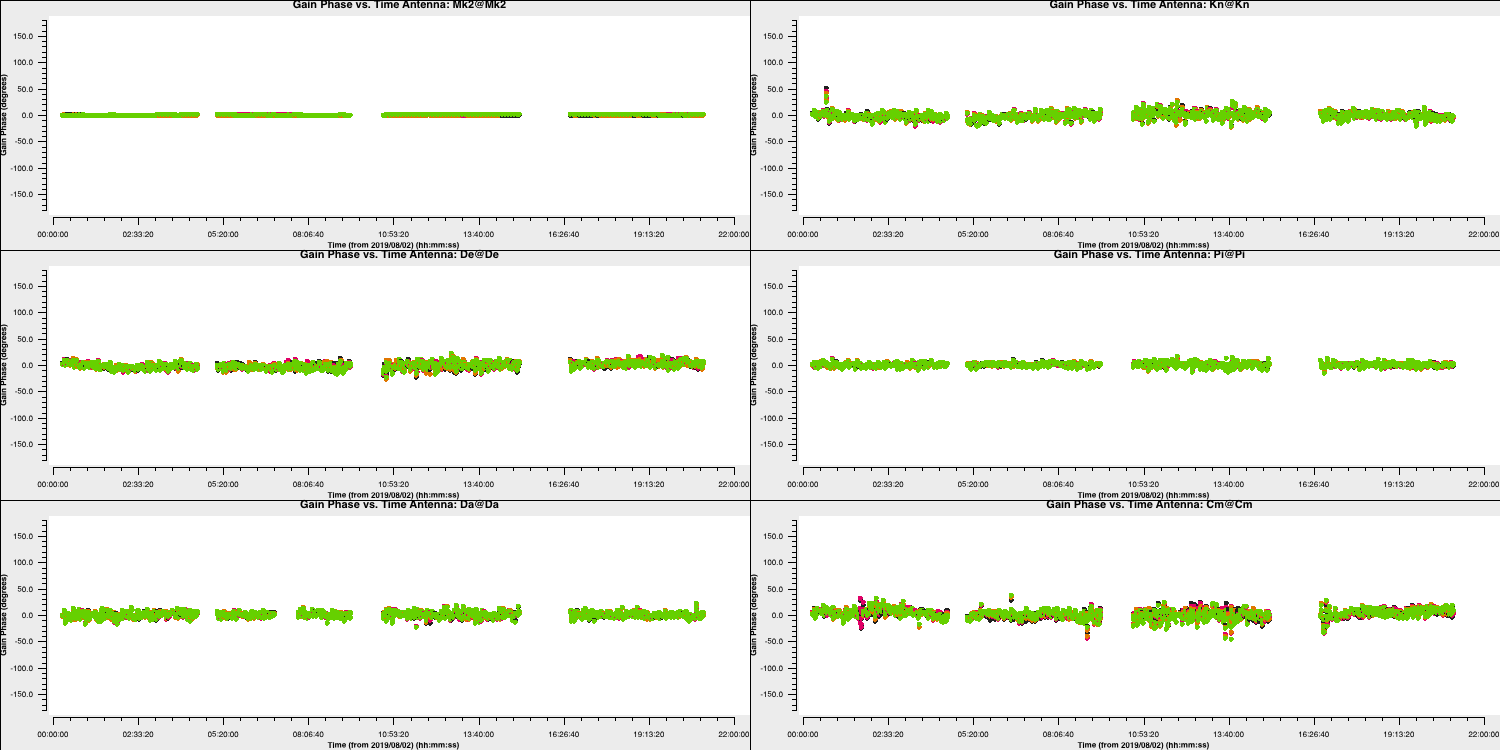
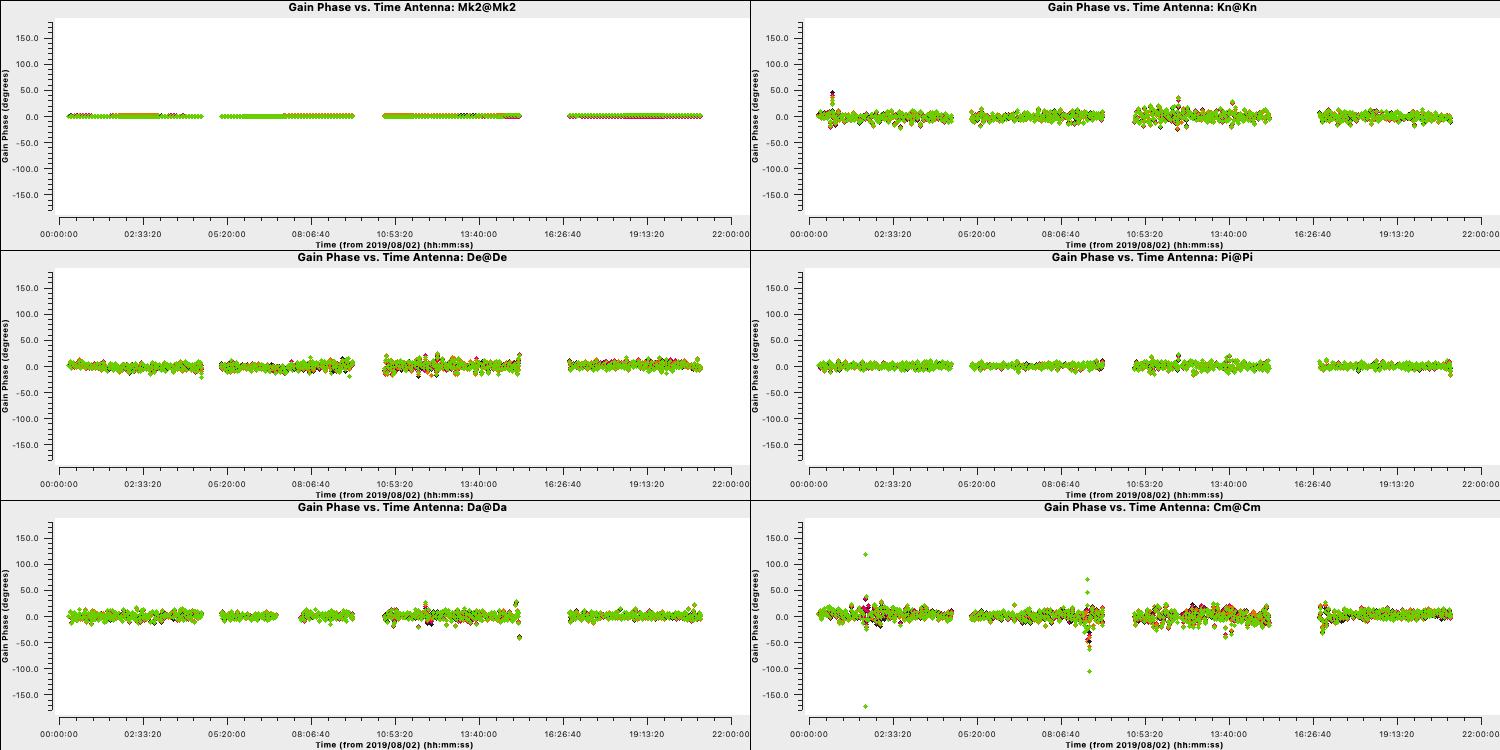
almost done self-cal

diff --git a/selfcalibration.html b/selfcalibration.html
@@ -98,7 +98,7 @@ onload = function(){
 		   yaxis='amp',
 		   ydatacolumn='model',
 		   correlation='RR,LL',
-		   avgchannel='64',
+		   avgchannel='16',
 		   coloraxis='spw',
 		   plotfile='',
 		   overwrite=True, showgui=gui)</code></pre></li>
@@ -250,7 +250,7 @@ onload = function(){
 								<p>
 									<ul>
 										<li>Take a look at step 8 and enter the parameters for <code class="language-bash">gaincal</code> as before, but now reduce the solution interval to 30s,
-								<pre class="line-numbers" data-start="241"><code class="language-python">	gaincal(vis=target+'.ms',
+								<pre class="line-numbers" data-start="291"><code class="language-python">	gaincal(vis=target+'.ms',
 			calmode='**',
 			caltable='target.p2',
 			field=target,
@@ -277,8 +277,8 @@ onload = function(){
 								</p>
 								<p>
 									<ul>
-										<li>Take a look at step 9 and enter the parameters into <code class="language-bash">applycal</code> as before, but making sure we add the new gaintable to the list.<pre class="line-numbers" data-start="279"><code class="language-python">applycal(vis='1252+5634.ms',
-			 gaintable=['**', '**'])</code></pre></li>
+										<li>Take a look at step 9 and enter the parameters into <code class="language-bash">applycal</code> as before, but making sure we add the new gaintable to the list.<pre class="line-numbers" data-start="330"><code class="language-python">applycal(vis='1252+5634.ms',
+		 gaintable=['**', '**'])</code></pre></li>
 			 						</ul>
 								</p>
 								
@@ -290,24 +290,49 @@ onload = function(){
 								</p>
 								<p>	
 									<ul>
-										<li>Enter the imaging parameters into the <code class="language-bash">tclean</code>	step and the box sizes into the image statistics to track the S/N,<pre class="line-numbers" data-start="284"><code class="language-python">	tclean(vis=target+'.ms',
-		   imagename=target+'_p2.clean',
+										<li>Enter the imaging parameters into the <code class="language-bash">tclean</code>	step and the box sizes into the image statistics to track the S/N,
+											<div class="row">
+												<div class="column">
+												<b>Linux</b>
+												<pre class="line-numbers" data-start="336"><code class="language-python">	tclean(vis=target+'.ms',
+		   imagename='targetp2',
+		   imsize=['**','**'],
 		   cell='**arcsec',
-		   niter=4500, # stop before this if residuals reach noise
+		   specmode='mfs',
+		   niter=4000,
 		   cycleniter=500,
 		   gain=0.2,
-		   imsize=['**','**'],
+		   threshold=0,
 		   deconvolver='mtmfs',
 		   savemodel='modelcolumn',
 		   nterms=2, # Make spectral index image
-		   interactive=True)
-
-	rmsp2=imstat(imagename=target+'_p2.clean.image.tt0',
-				  box='**,**,**,**')['rms'][0]
-	peakp2=imstat(imagename=target+'_p2.clean.image.tt0',
-				  box='**,**,**,**')['max'][0]</code></pre></li>
+		   interactive=True)</code></pre></div>
+			<div class="column">
+			<b>Mac OS</b>
+			<pre class="line-numbers" data-start="350"><code class="language-python">	run_iclean(vis=target+'.ms',
+			   imagename='targetp2',
+			   imsize=['**','**'],
+			   cell='**arcsec',
+			   specmode='mfs',
+			   niter=4000,
+			   cycleniter=500,
+			   gain=0.2,
+			   threshold=0,
+			   deconvolver='mtmfs',
+			   savemodel='modelcolumn',
+			   nterms=2) # Make spectral index image
+	 ft(vis=target+'.ms',
+		model=['targetp2.model.tt0','targetp2.model.tt1'],
+		nterms=2,
+		usescratch=True)</code></pre></div></div>
+			
+			
+			<pre class="line-numbers" data-start="367"><code class="language-python">	rmsp2=imstat(imagename='targetp2.image.tt0',
+				box='**,**,**,**')['rms'][0]
+	peakp2=imstat(imagename='targetp2.image.tt0',
+				box='**,**,**,**')['max'][0]</code></pre></li>
 				  						<li>Once you are happy execute step 9 and clean the image! Make sure you clean till as much target flux as possible has been removed into the model - you can increase the number of iterations interactively if you want.</li>
-										<li>Use <code class="language-bash">ls</code> to see the names of the image files created. The image name is <code class="language-bash">1252+5634_p2.clean.image.tt0</code>.</li>
+										<li>Use <code class="language-bash">ls</code> to see the names of the image files created. The image name is <code class="language-bash">targetp2.image.tt0</code>.</li>
 									</ul>
 								</p>
 								<p>
@@ -323,13 +348,13 @@ onload = function(){
 								</p>
 								<p>
 									<ul>
-										<li>In step 10, use <code class="language-bash">plotms</code> to plot the amplitude versus time of the shortest baseline then execute the step<pre class="line-numbers" data-start="320"><code class="language-python">	plotms(vis=target+'.ms',
+										<li>In step 10, use <code class="language-bash">plotms</code> to plot the amplitude versus time of the shortest baseline then execute the step<pre class="line-numbers" data-start="394"><code class="language-python">	plotms(vis=target+'.ms',
 		   xaxis='**',
 		   yaxis='**',
 		   ydatacolumn='**',
 		   antenna='**&**',
 		   correlation='RR,LL',
-		   avgchannel='64',
+		   avgchannel='16',
 		   coloraxis='spw',
 		   timerange='',
 		   plotfile='',
@@ -337,7 +362,7 @@ onload = function(){
 									</ul>
 		   						</p>
 		   						<p>
-		   							You should find a plot similar to that below. The smooth amplitude changes across the duration of the observation are not due to the antennae errors but due to the structure of the source (antennae errors should be on shorter timescales and less smooth). Remember that the projected baseline length changes over time so the sky the baseline 'sees' also changes.
+		   							You should find a plot similar to that below. The smooth amplitude changes across the duration of the observation are not due to the antennae errors but due to the structure of the source (antennae errors should be on shorter timescales and less smooth). Remember that the projected baseline length changes over time so the sky that the baseline 'sees' also changes.
 		   						</p>
 		   						<div class="col-12"><span class="image fit"><img src="plots/3C277.1_amp.png" alt="" /></span></div>
 		   						<p>
@@ -363,9 +388,9 @@ onload = function(){
 								<p>
 									<ul>
 										<li>Take a look at step 11 and set up <code class="language-bash">gaincal</code> to calibrate amplitude and phase, with a longer solution interval, and the same refant etc. as before.
-								<pre class="line-numbers" data-start="341"><code class="language-python">	gaincal(vis=target+'.ms',
+								<pre class="line-numbers" data-start="415"><code class="language-python">	gaincal(vis=target+'.ms',
 			calmode='**',
-			caltable='target.ap1',
+			caltable='target.ap3',
 			field=target,
 			solint='**',
 			refant=antref,
@@ -389,27 +414,44 @@ onload = function(){
 								</p>
 								<p>
 									<ul>
-										<li>In step 12, enter the parameters to apply all the calibration tables, make a final image, and record the statistics of the final image (use the same parameters as before)<pre class="line-numbers" data-start="378"><code class="language-python">	applycal(vis=target+'.ms',
-			 gaintable=['**','**','**'], calwt=False)
-
-	# clean amp&phase self-calibrated image
-	os.system('rm -rf '+target+'_ap1.clean*')
-	tclean(vis=target+'.ms',
-		   imagename=target+'_ap1.clean',
+										<li>In step 12, enter the parameters to apply all the calibration tables, make a final image, and record the statistics of the final image (use the same parameters as before)<pre class="line-numbers" data-start="453"><code class="language-python">	applycal(vis=target+'.ms',
+			 gaintable=['**','**','**'], calwt=False)</code></pre>
+			<div class="row">
+			<div class='column'>
+			<b>Linux</b>
+			<pre class="line-numbers" data-start="459"><code class="language-python">	tclean(vis=target+'.ms',
+		   imagename='targetap3',
+		   imsize=['**','**'],
 		   cell='**arcsec',
-		   niter=5000, # stop before this if residuals reach noise
+		   specmode='mfs',
+		   niter=5000,
 		   cycleniter=500,
 		   gain=0.2,
-		   imsize=['**','**'],
+		   threshold=0,
 		   deconvolver='mtmfs',
 		   savemodel='modelcolumn',
 		   nterms=2, # Make spectral index image
-		   interactive=True)
-
-	rmsap1=imstat(imagename=target+'_ap1.clean.image.tt0',
-				  box='**,**,**,**')['rms'][0]
-	peakap1=imstat(imagename=target+'_ap1.clean.image.tt0',
-				  box='**,**,**,**')['max'][0]</code></pre></li>
+		   interactive=True)</code></pre>
+			</div>
+			<div class='column'>
+			<b>Mac OS</b>
+			<pre class="line-numbers" data-start="473"><code class="language-python">	run_iclean(vis=target+'.ms',
+			   imagename='targetap3',
+			   imsize=['**','**'],
+			   cell='**arcsec',
+			   specmode='mfs',
+			   niter=5000,
+			   cycleniter=500,
+			   gain=0.2,
+			   threshold=0,
+			   deconvolver='mtmfs',
+			   savemodel='modelcolumn',
+			   nterms=2) # Make spectral index image</code></pre>
+			</div></div>
+			<pre class="line-numbers" data-start="486"><code class="language-python">	rmsap1=imstat(imagename='targetap3.image.tt0',
+				box='**,**,**,**')['rms'][0]
+	peakap1=imstat(imagename='targetap3.image.tt0',
+				box='**,**,**,**')['max'][0]</code></pre></li>
 				  						<li>Once you are done, execute the step and clean the image.</li>
 				  					</ul>
 				  				</p>
